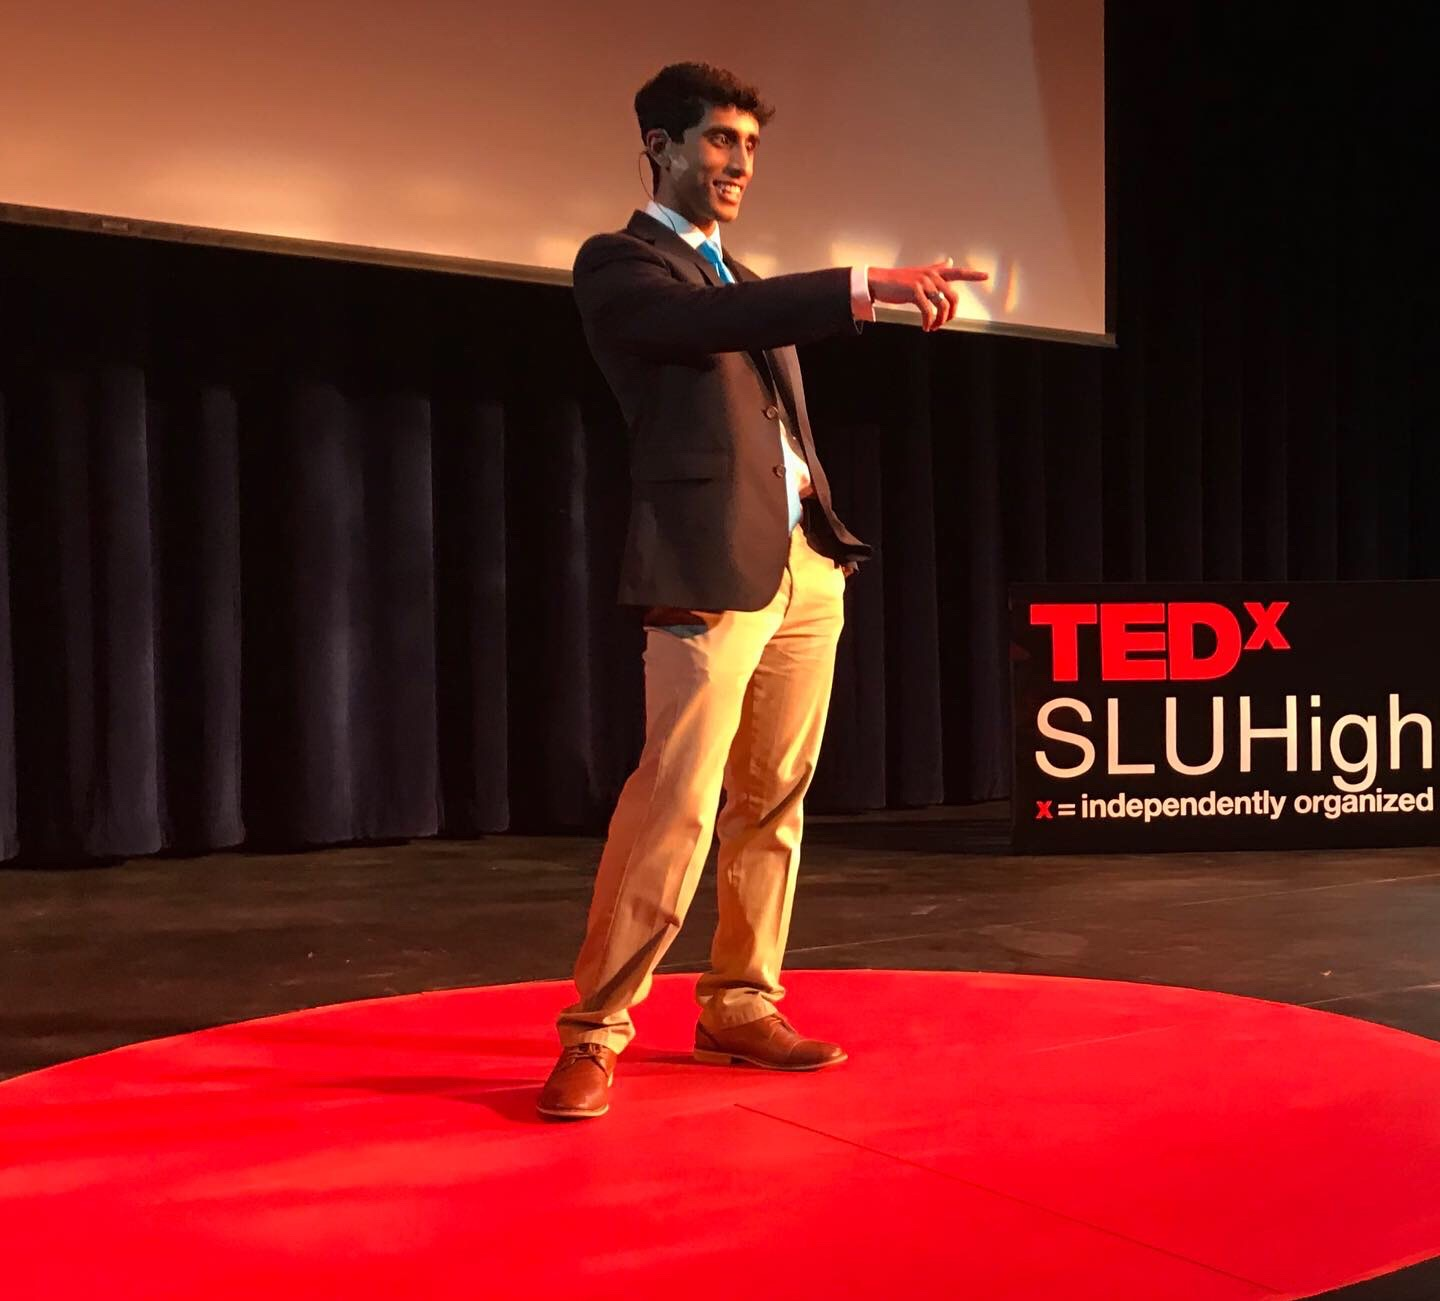
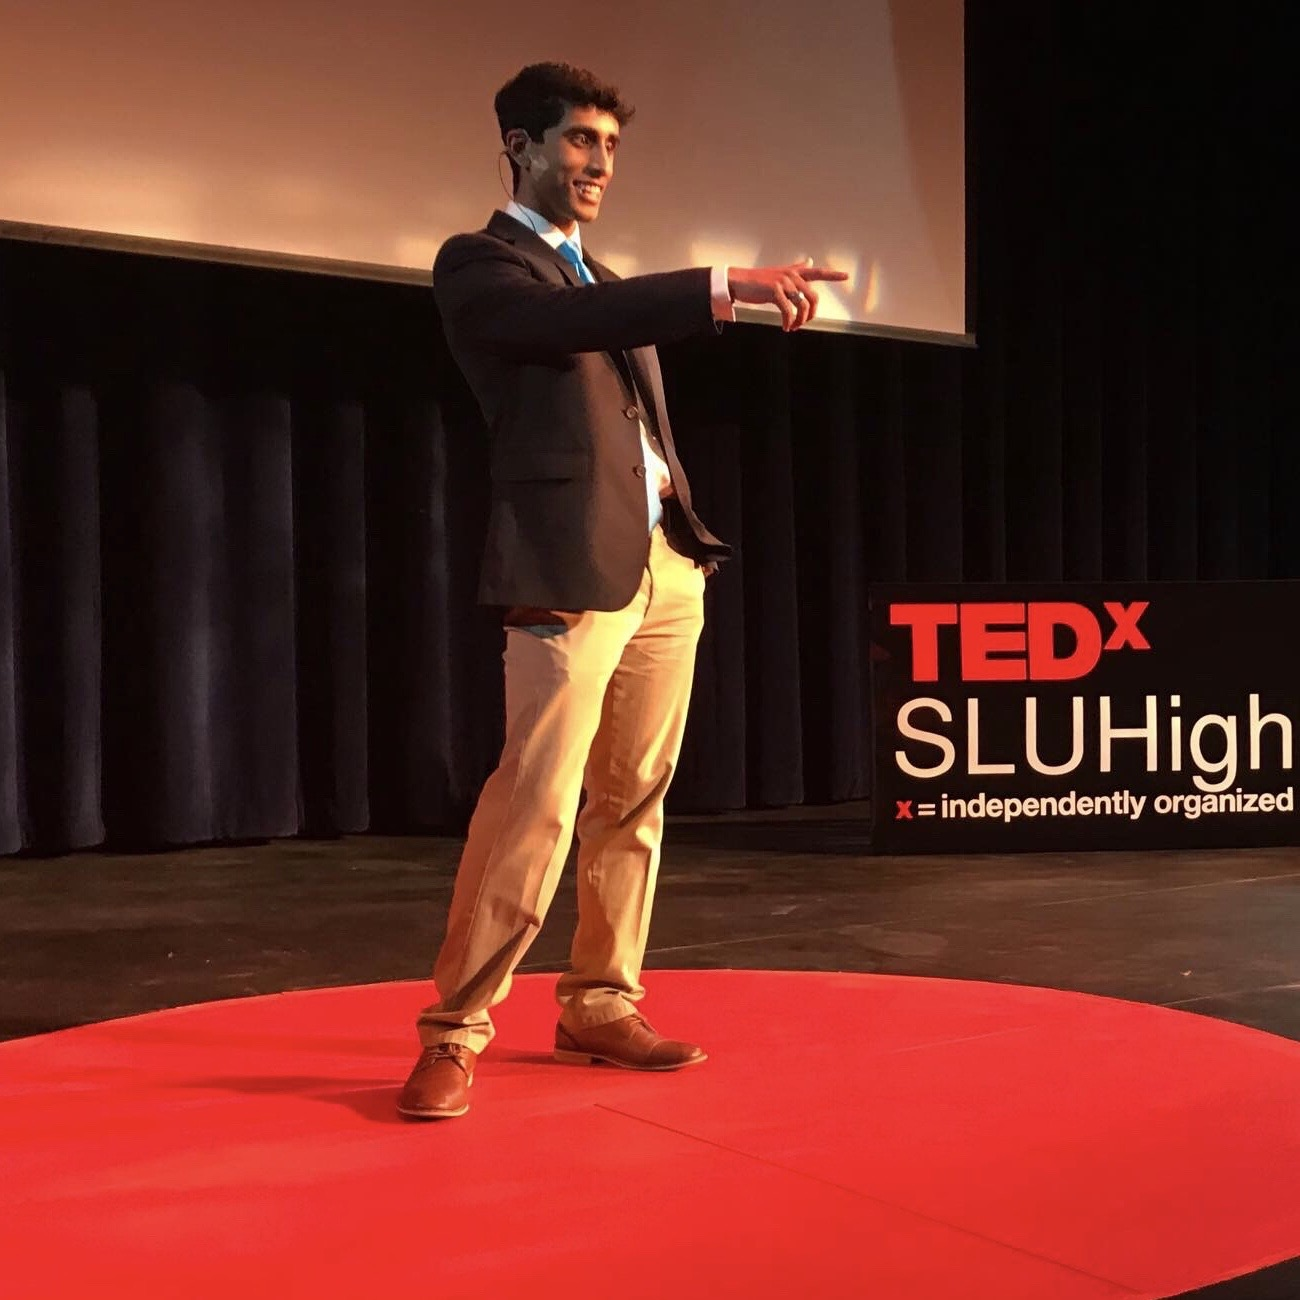
new pics

diff --git a/templates/dashboard.html b/templates/dashboard.html
@@ -36,7 +36,7 @@ and is wrapped around the whole page content, except for the footer in this exam
   <!-- Image header --> 
   <header class="w3-display-container w3-wide" id="home">
     <img class="w3-image mySlides w3-animate-right" src="./static/images/tedx.jpg" alt="tedx" width="1600" height="200">
-    <img class="w3-image mySlides w3-animate-right" src="./static/images/service.jpg" alt="service" width="1600" height="1400">
+    <img class="w3-image mySlides w3-animate-right" src="./static/images/explorer.jpg" alt="service" width="1600" height="1400">
     <div class="w3-display-left w3-padding-large">
       <h1 class="w3-text-white">Alvin Alaphat</h1>
       <h1 class="w3-jumbo myTextSlide w3-animate-right w3-text-white w3-hide-small"><b>Tedx Speaker</b></h1>
